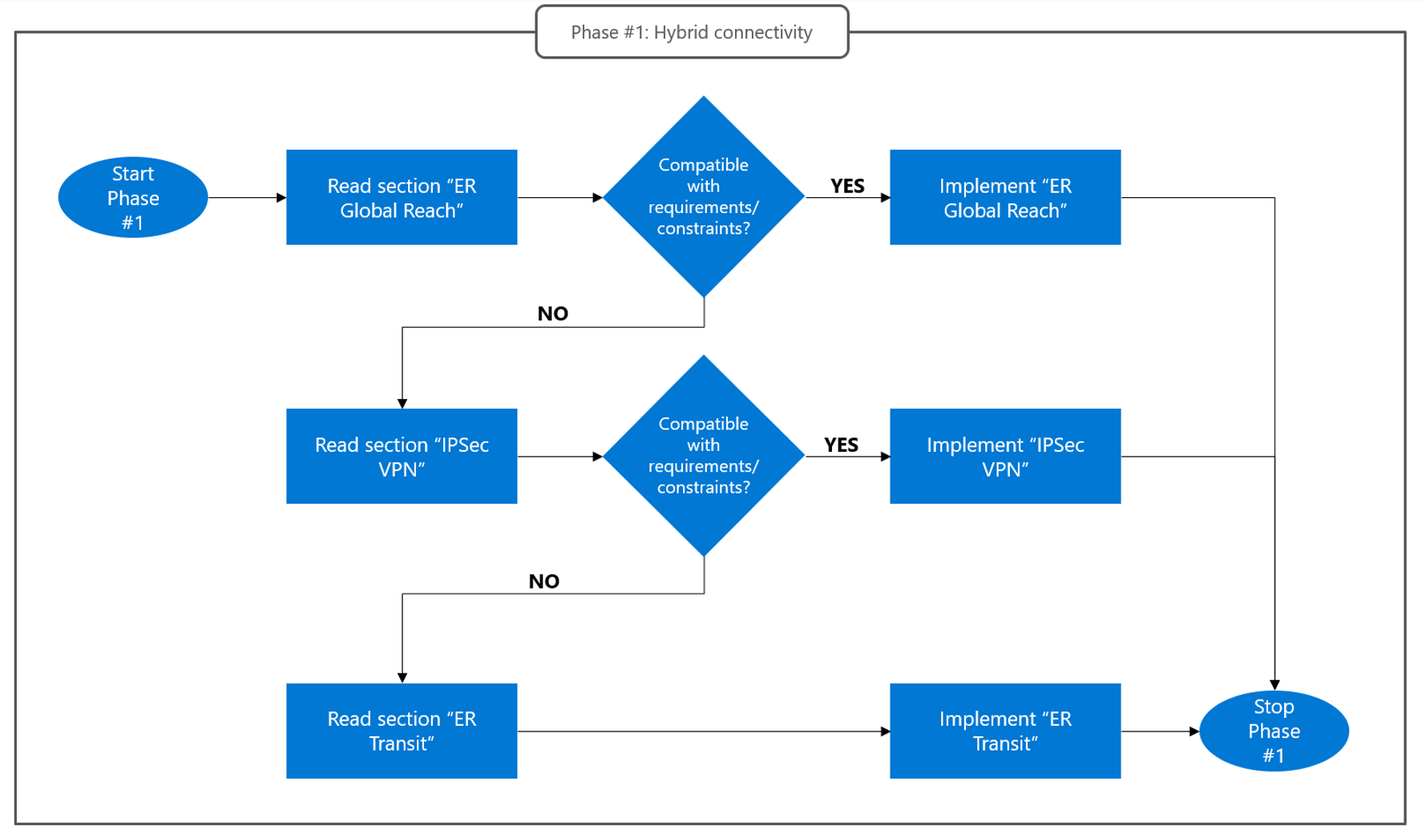
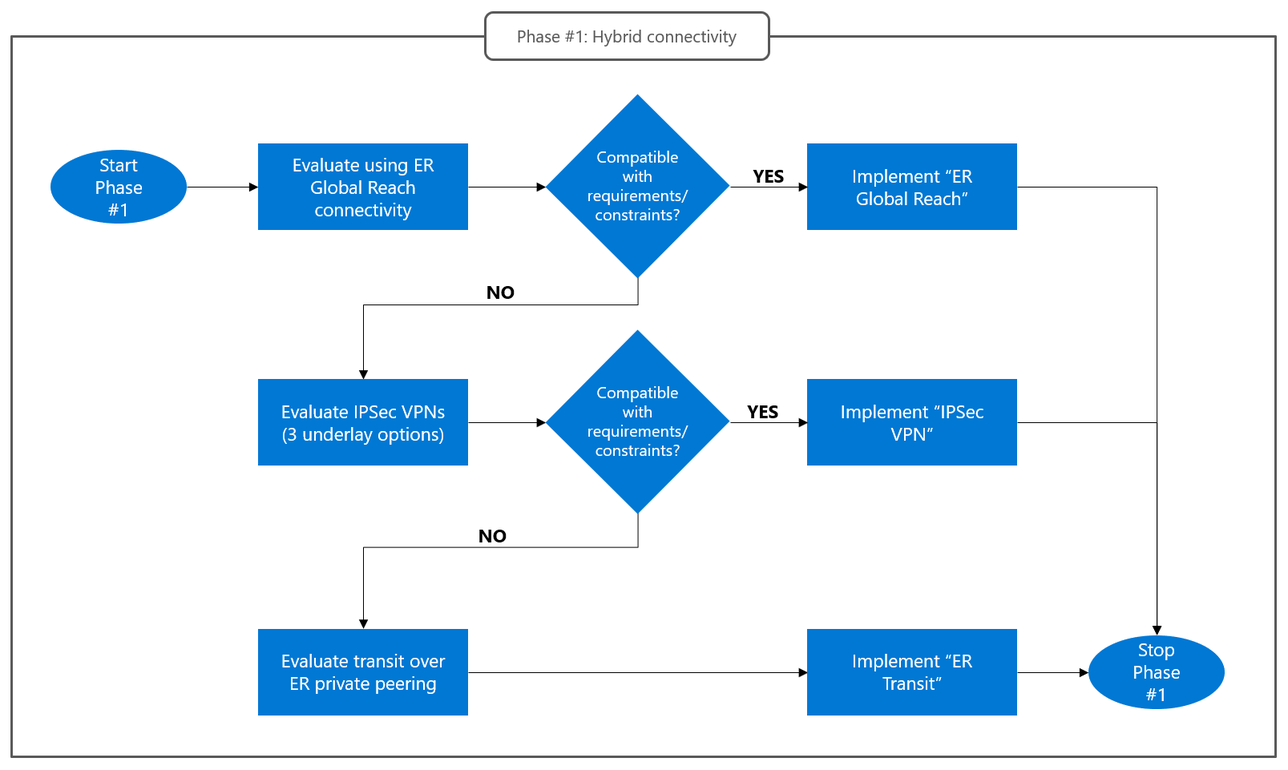
Updated figures

diff --git a/Network Design Guide/onprem-connectivity.md b/Network Design Guide/onprem-connectivity.md
@@ -6,15 +6,16 @@ Connectivity with on-premises datacenters is the most critical design area for A
 This section describes the options supported by AVS for connectivity with on-premises sites, in order of decreasing ability to meet the key requirements listed above. An option should be discarded, and the next one considered, only if it conflicts with non-negotiable constraints that exist in a specific scenario, as shown in the flowchart below:
    
 ![figure6](media/figure6.png)
-Figure 6. Design phase #1. How to select a hybrid connectivity option for AVS.
+*Design phase #1. How to select a hybrid connectivity option for AVS.*
 
 ## ExpressRoute Global Reach
 ExpressRoute Global Reach is the default hybrid connectivity option supported by AVS. It provides plain layer-3 connectivity between AVS and remote sites connected via a customer-managed ExpressRoute circuit, with minimal complexity. The customer-managed ExpressRoute circuit can be used to connect to Azure native services too. It is also possible to deploy a separate AVS circuit exclusively dedicated to AVS hybrid traffic. 
 The figure below shows the network topology when Global Reach is used for hybrid connectivity.
  
 ![figure7](media/figure7.png)
-Figure 7. Hybrid connectivity with ExpressRoute Global Reach. Traffic between AVS and on-premises sites does not transit through Azure VNets.
-Detailed instructions on how to connect an AVS private cloud to a customer managed ExpressRoute circuit using Global Reach are available in [this article](https://learn.microsoft.com/azure/azure-vmware/tutorial-expressroute-global-reach-private-cloud). 
+*Hybrid connectivity with ExpressRoute Global Reach. Traffic between AVS and on-premises sites does not transit through Azure VNets.*
+
+Detailed instructions on how to connect an AVS private cloud to a customer managed ExpressRoute circuit using Global Reach are available in [this article](https://learn.microsoft.com/azure/azure-vmware/tutorial-expressroute-global-reach-private-cloud).
 
 This option fully addresses the three key requirements listed above:  
 - High throughput: ExpressRoute allows customers to connect to the edge of the Microsoft network from their premises over dedicated lines, and to provision the network capacity they need (up to 10 Gbps for provider-based ExpressRoute, or 100 Gbps for ExpressRoute Direct). 
@@ -25,18 +26,22 @@ Using Global Reach for hybrid AVS connectivity is not an option in scenarios whe
   - Non-negotiable network security requirements. If a firewall device cannot be deployed at the on-premises side of the customer-managed ExpressRoute circuit, using Global Reach exposes all AVS network segments, including management endpoints (vCenter Server and NSX-T Manager), to the entire network connected to the circuit. The most typical scenario where this constraint applies is customer-managed ExpressRoute circuits implemented on top of MPLS network services, as shown in the figure below.
  
 ![figure8](media/figure8.png)
-Figure 8. ExpressRoute (ER) connectivity implemented on top of MPLS IPVPNs makes it impossible to deploy firewalls in a single location/facility to inspect all traffic to/from AVS (there is no customer-owned infrastructure at the ER peering location).  Typically, customers that use MPLS networks deploy firewall in large datacenters, not in all MPLS connected sites (which can be small branches/offices/stores/…).
+*ExpressRoute (ER) connectivity implemented on top of MPLS IPVPNs makes it impossible to deploy firewalls in a single location/facility to inspect all traffic to/from AVS (there is no customer-owned infrastructure at the ER peering location).  Typically, customers that use MPLS networks deploy firewall in large datacenters, not in all MPLS connected sites (which can be small branches/offices/stores/…).*
 
 ## IPSec VPNs
 If ExpressRoute Global Reach cannot be used, then connectivity between AVS private clouds and on-premises sites can be implemented by routing traffic through a “transit” VNet in Azure. The transit VNet is connected to the AVS private cloud through the AVS managed ExpressRoute circuit. As for connectivity between the transit VNet and the on-premises site, the lowest-complexity approach is using an IPSec VPN, covered in this section, and shown in the diagram below. The next section covers custom implementations for transit VNets with plain layer-3 connectivity to on-premises sites over the ExpressRoute “Private” peering.
  
 ![figure9](media/figure9.png)
-Figure 9. The “IPSec VPN” connectivity option covered in this section. Traffic between AVS private clouds and on-premises sites is routed through a transit VNet in Azure. The transit VNet is connected to AVS through the private cloud’s managed ExpressRoute circuit and to the on-premises site through an IPSec tunnel, terminated, on the Azure side, by a VPN device hosted in the transit VNet. Different implementation options exist for the IPSec tunnel’s underlay, the VPN device and the transit VNet (including the network function that routes traffic between the VPN device and the ExpressRoute gateway.) These details are not shown in this picture.
+*The “IPSec VPN” connectivity option covered in this section. Traffic between AVS private clouds and on-premises sites is routed through a transit VNet in Azure. The transit VNet is connected to AVS through the private cloud’s managed ExpressRoute circuit and to the on-premises site through an IPSec tunnel, terminated, on the Azure side, by a VPN device hosted in the transit VNet. Different implementation options exist for the IPSec tunnel’s underlay, the VPN device and the transit VNet (including the network function that routes traffic between the VPN device and the ExpressRoute gateway.) These details are not shown in this picture.*
 
 Implementing IPSec connectivity between on-premises sites and transit VNets entails three design decisions:
 1. Which connectivity service to use as the underlay for the IPSec tunnel. The available options are internet connectivity, ExpressRoute “Microsoft” peering and ExpressRoute “Private” peering.
 2. Where to host the virtual devices that terminate the IPSec tunnel on the Azure side. The available options are using a customer-managed VNet or a Virtual WAN hub. 
 3. Which virtual device terminates the IPSec tunnel on the Azure side. The choice of the device also determines the required Azure configuration to route traffic between the IPSec tunnel and the AVS managed circuit. The available options are native Azure VPN gateway or 3rd party IPSec NVAs, deployed in a customer-managed VNet or in a Virtual WAN hub.
+
+![figure9-1](media/figure9-1.png)
+*Design process for IPSec connectivity.*
+
 The criteria that drive these design decisions are covered  next.
 
 ### IPSec tunnel underlay
@@ -45,17 +50,17 @@ This guide strongly advocates considering the three available options in the ord
 **Internet connectivity**: With this option, an internet connection is used at the on-premises site to reach the edge of the Microsoft network and the public IP of a VPN device hosted in the transit VNet, which serves as the remote endpoint of the IPSec tunnel. Due to its low complexity and cost, internet connectivity should be always tested and assessed from a performance standpoint (achievable IPSec throughput – see the “IPSec bandwidth considerations” section below). It should be dismissed only when the observed performance is too low and/or not consistent over time.
  
 ![figure10](media/figure10.png)
-Figure 10. Internet connection as the IPSec tunnel underlay.
+*Internet connection as the IPSec tunnel underlay.*
 
 **ExpressRoute “Microsoft” peering**: The ExpressRoute “Microsoft” peering provides layer-3 connectivity to public Azure endpoints over dedicated links with customer-defined bandwidth. Just like internet connections, it allows reaching the public IP of a VPN device hosted in the transit VNet, which serves as the remote endpoint of the IPSec tunnel. This option should be dismissed only when the [Microsoft peering’s routing requirements](https://learn.microsoft.com/azure/expressroute/expressroute-routing#ip-addresses-used-for-microsoft-peering) cannot be met. 
  
 ![figure11](media/figure11.png)
-Figure 11. ExpressRoute “Microsoft” peering as the IPSec tunnel underlay.
+*ExpressRoute “Microsoft” peering as the IPSec tunnel underlay.*
 
 **ExpressRoute “Private” peering**: The ExpressRoute “Private” peering provides layer-3 connectivity between an on-premises site’s network and Azure VNets over dedicated links with customer-defined bandwidth. As such, it allows establishing an IPSec tunnel from the on-premises site towards the private IP address of a VPN device hosted in the transit VNet. The ExpressRoute “Private” peering may introduce bandwidth limitations (due to the presence of the ExpressRoute Gateway in the transit VNet, which is in the data path unless [ExpressRoute FastPath]( https://learn.microsoft.com/azure/expressroute/about-fastpath) can be used) and requires more complex routing configuration on the on-premises side (see [this article]( https://learn.microsoft.com/azure/vpn-gateway/site-to-site-vpn-private-peering?toc=%2Fazure%2Fexpressroute%2Ftoc.json) for more details).
  
 ![figure12](media/figure12.png)
-Figure 12. ExpressRoute “Private” peering as the IPSec tunnel underlay.
+*ExpressRoute “Private” peering as the IPSec tunnel underlay.*
 
 ### Customer-managed VNet vs. Virtual WAN hub 
 This design decision is driven by the characteristics of the pre-existing Azure environment (if any) and by the desired trade-off between management effort and ability to tailor the configuration to meet specific needs. As such, this guide does not advocate a preferred/recommended solution. The key considerations are listed below.
@@ -93,17 +98,17 @@ Both options rely, for their control plane implementations, on [Azure Route Serv
 In the single VNet approach, both the AVS-managed circuit and the customer-managed circuit are connected to the same VNet, typically the hub VNet in a pre-existing hub and spoke network. Traffic between the private cloud and the on-premises site can be routed through firewall NVAs deployed in the hub VNet. The single VNet architecture is shown in the figure below.
  
 ![figure13](media/figure13.png)
-Figure 13. The single-VNet option for ExpressRoute transit.
+*The single-VNet option for ExpressRoute transit.*
 
 The control plane and the data plane are implemented as follows.
-- Control plane. As the ExpressRoute Gateway deployed in the Azure VNet cannot propagate routes between the AVS managed and the customer managed ExpressRoute circuits, Azure Route Server is used to inject, in both circuits, routes for supernets that include the private cloud’s address space (management networks and workload segments) and the on-premises address space. Using supernets, instead of the exact prefixes that comprise those address spaces, is required because the exact prefixes are announced in the opposite direction (by the private cloud and the on-premises site). Supernets as large as RFC 1918 prefixes may be used if compatible with the network configuration of the on-premises sites. In most cases, the smallest supernets that include that include the private cloud’s address space and the on-premises address space should be used instead, to avoid conflicts with the network configuration of the on-premises sites. The routes for the supernets are originated by BGP-capable NVAs. The NVAs are configured to establish a BPG session with the Azure Route Server. They are only part of the control plane and do not route actual traffic between the on-premises site and the private cloud. The control plane implementation is shown by the grey lines in Figure 13 below.
+- Control plane. As the ExpressRoute Gateway deployed in the Azure VNet cannot propagate routes between the AVS managed and the customer managed ExpressRoute circuits, Azure Route Server is used to inject, in both circuits, routes for supernets that include the private cloud’s address space (management networks and workload segments) and the on-premises address space. Using supernets, instead of the exact prefixes that comprise those address spaces, is required because the exact prefixes are announced in the opposite direction (by the private cloud and the on-premises site). Supernets as large as RFC 1918 prefixes may be used if compatible with the network configuration of the on-premises sites. In most cases, the smallest supernets that include that include the private cloud’s address space and the on-premises address space should be used instead, to avoid conflicts with the network configuration of the on-premises sites. The routes for the supernets are originated by BGP-capable NVAs. The NVAs are configured to establish a BPG session with the Azure Route Server. They are only part of the control plane and do not route actual traffic between the on-premises site and the private cloud. The control plane implementation is shown by the grey lines in the figure below.
 - Data plane. The control plane implementation described above achieves the effect of attracting to the ExpressRoute Gateway (a) traffic from the on-premises site, destined to the AVS private cloud; and (b) traffic from the private cloud, destined to the on-premises site. If no UDR’s are applied to the GatewaySubnet, traffic flows directly between the on-premises site and the private cloud. By applying UDR’s to the GatewaySubnet, it is possible to route traffic to an intermediate next hops, such as a firewall NVAs that enforce a network security policy on connections between on-pre sites and private clouds (for example, protecting access to AVS management endpoints from the on-premises site’s network).
 
 ### ExpressRoute transit, auxiliary VNet
 In this approach, an auxiliary VNet is used to host a second ExpressRoute gateway, connected to the AVS-managed circuit only. By connecting the AVS-managed circuit and the customer-managed circuit to different ExpressRoute gateways, and injecting proper routes into them via Route Server instances, it is possible to granularly control route propagation between the private cloud and the on-premises site. Announcing supernets is no longer necessary (as it is the case for the single VNet option covered in the previous section). Management overhead for UDR’s in the GatewaySubnet is also reduced. This approach allows routing traffic between the private cloud and the on-premises site through firewall NVAs in the hub VNet. The auxiliary VNet implementation option is shown in the figure below.
  
 ![figure14](media/figure14.png)
-Figure 14. The auxiliary VNet implementation option.
+*The auxiliary VNet implementation option.*
 
 The control plane and the data plane are implemented as follows.
 - Control plane. To enable route propagation between the AVS-managed circuit and the customer-managed circuit, an Azure Route Server instance is needed in each VNet. As the two Azure Route Server instances cannot establish a BGP adjacency, BGP-capable NVAs are needed to propagate routes between them. At least two NVA instances should be deployed for high availability. More instances may be added to increase throughput. The BGP capable NVAs must have two NICs, attached to different subnets. BGP sessions towards the two Route Servers (in the auxiliary VNet and the hub VNet) must be established over different NICs. Routes originated by the private cloud and by the on-premises site are learned over ExpressRoute circuits: Their AS Path contains ASN 65515 (Azure-reserved ASN used by ExpressRoute Gateways) and ASN 12076 (Microsoft-owned ASN used by the MSEEs in all peering locations). The BGP-capable NVAs must manipulate the AS Path by removing them, to prevent routes from being dropped by BGP loop detection. Additional details on the required BGP configuration are provided in [this step-by-step configuration guide]( https://github.com/Azure/Enterprise-Scale-for-AVS/tree/main/BrownField/Networking/Step-By-Step-Guides/Expressroute%20connectivity%20for%20AVS%20without%20Global%20Reach). It should be noted that the 

diff --git a/Network Design Guide/avs-networking-basics.md b/Network Design Guide/avs-networking-basics.md
@@ -6,18 +6,18 @@ Azure VMware Solution runs on bare-metal VMware ESXi nodes deployed in Azure dat
 When an Azure VMware Solution Private Cloud is provisioned, an associated ExpressRoute circuit is also instantiated in a Microsoft-managed subscription. The private cloud’s owner can then connect the circuit to one or more ExpressRoute Virtual Network Gateways in Azure VNets, by redeeming authorization keys for the circuit (the same procedure used to create connections between ExpressRoute Gateways and customer-managed circuits). Please refer to the [Azure VMware Solution official documentation](https://learn.microsoft.com/azure/azure-vmware/deploy-azure-vmware-solution?tabs=azure-portal#connect-to-azure-virtual-network-with-expressroute ) for detailed instructions.
  
 ![figure2](media/figure2.png) 
-Figure 2. Azure VMware Solution leverages a dedicated ExpressRoute implementation to provide layer-3 connectivity between Azure VNets and the physical network to which the VMWare ESXi clusters are attached. The VMware ESXi clusters are hosted in the same Microsoft datacenter facilities that host the Azure platform.
+*Azure VMware Solution leverages a dedicated ExpressRoute implementation to provide layer-3 connectivity between Azure VNets and the physical network to which the VMWare ESXi clusters are attached. The VMware ESXi clusters are hosted in the same Microsoft datacenter facilities that host the Azure platform.*
 
 ## What is the role played by ExpressRoute Global Reach?
 An Azure ExpressRoute Gateway cannot be used to route traffic between on-premises locations connected to it over different circuits. This limitation applies to the Azure VMware Solution dedicated ExpressRoute implementation too, as shown in the figure below.
  
 ![figure3](media/figure3.png) 
-Figure 3. ExpressRoute does not support routing traffic between different circuits connected to the same gateway.
+*ExpressRoute does not support routing traffic between different circuits connected to the same gateway.*
 
 Global Reach is an ExpressRoute feature that allows connecting two circuits, so that the networks connected to each circuit can route traffic to each other over the Microsoft backbone. Global Reach is available in the Azure VMware Solution dedicated ExpressRoute implementation. As such, Azure VMware Solution managed ExpressRoute circuits can be connected to customer-managed circuits, providing layer-3 connectivity between on-premises networks and Azure VMware Solution private clouds.
  
 ![figure4](media/figure4.png) 
-Figure 4. ExpressRoute Global Reach provides direct, layer-3 connectivity over ExpressRoute for on-premises sites.
+*ExpressRoute Global Reach provides direct, layer-3 connectivity over ExpressRoute for on-premises sites.*
 
 ## Azure VMware Solution network topology
 An Azure VMware Solution private cloud infrastructure includes several network segments. 
@@ -28,15 +28,15 @@ An Azure VMware Solution private cloud infrastructure includes several network s
 Azure VMware Solution private clouds connect to Azure VNets and remote sites over the managed ExpressRoute circuit. BGP is used for dynamic route exchange, as shown in the figure below.
  
 ![figure5](media/figure5.png) 
-Figure 5. Dynamic routing in Azure VMware Solution.
+*Dynamic routing in Azure VMware Solution.*
 
-In the standard topology shown in Figure 5:
-- Routes for all network segments in the Azure VMware Solution private cloud (both management and workload segments) are announced to all ExpressRoute Gateways connected to the private cloud’s managed circuit. In the opposite direction, ExpressRoute Gateways announce routes for all the prefixes that comprise the address space of their own VNet and the address space of all directly peered VNets, if peering is configured to [allow gateway transit](https://learn.microsoft.com/azure/virtual-network/virtual-network-peering-overview#gateways-and-on-premises-connectivity) (red arrow in Figure 5). 
-- Routes for all network segments in the Azure VMware Solution private cloud (both management and workload segments) are announced to all ExpressRoute circuits connected to the private cloud’s managed circuit via Global Reach. In the opposite direction, all routes announced from the on-premises site over the customer-managed ExpressRoute circuit are propagated to the Azure VMware Solution private cloud (yellow arrow in Figure 5).
-- All routes announced from the on-premises site over the customer-managed ExpressRoute circuit are learned by all ExpressRoute Gateways connected to the circuit and injected the route table of the Gateway’s VNet (as well as the route table of all directly peered VNets, if peering is configured to [allow gateway transit](https://learn.microsoft.com/azure/virtual-network/virtual-network-peering-overview#gateways-and-on-premises-connectivity)). In the opposite direction, ExpressRoute Gateways announce routes for all the prefixes that comprise the address space of their own VNet (as well as the address space of all directly peered VNets, if peering is configured to [allow gateway transit](https://learn.microsoft.com/azure/virtual-network/virtual-network-peering-overview#gateways-and-on-premises-connectivity)) (green arrow in Figure 5. This is standard ExpressRoute behavior, not related to Azure VMware Solution). 
+In the standard topology shown in the above figure:
+- Routes for all network segments in the Azure VMware Solution private cloud (both management and workload segments) are announced to all ExpressRoute Gateways connected to the private cloud’s managed circuit. In the opposite direction, ExpressRoute Gateways announce routes for all the prefixes that comprise the address space of their own VNet and the address space of all directly peered VNets, if peering is configured to [allow gateway transit](https://learn.microsoft.com/azure/virtual-network/virtual-network-peering-overview#gateways-and-on-premises-connectivity) (red arrow in the figure). 
+- Routes for all network segments in the Azure VMware Solution private cloud (both management and workload segments) are announced to all ExpressRoute circuits connected to the private cloud’s managed circuit via Global Reach. In the opposite direction, all routes announced from the on-premises site over the customer-managed ExpressRoute circuit are propagated to the Azure VMware Solution private cloud (yellow arrow in the figure).
+- All routes announced from the on-premises site over the customer-managed ExpressRoute circuit are learned by all ExpressRoute Gateways connected to the circuit and injected the route table of the Gateway’s VNet (as well as the route table of all directly peered VNets, if peering is configured to [allow gateway transit](https://learn.microsoft.com/azure/virtual-network/virtual-network-peering-overview#gateways-and-on-premises-connectivity)). In the opposite direction, ExpressRoute Gateways announce routes for all the prefixes that comprise the address space of their own VNet (as well as the address space of all directly peered VNets, if peering is configured to [allow gateway transit](https://learn.microsoft.com/azure/virtual-network/virtual-network-peering-overview#gateways-and-on-premises-connectivity)) (green arrow in the figure. This is standard ExpressRoute behavior, not related to Azure VMware Solution). 
 
 > **Note** <br>
-> It should be noted that ExpressRoute Gateways do not propagate routes across circuit connections. In Figure 5, the ExpressRoute Gateway does not propagate routes learned in the “red” BGP session to the “green” BGP peer, and vice versa. This is the reason why Global Reach is required to enable connectivity between the Azure VMware Solution private cloud and the on-premises site.
+> It should be noted that ExpressRoute Gateways do not propagate routes across circuit connections. In the above figure, the ExpressRoute Gateway does not propagate routes learned in the “red” BGP session to the “green” BGP peer, and vice versa. This is the reason why Global Reach is required to enable connectivity between the Azure VMware Solution private cloud and the on-premises site.
 
 ## Outbound data transfer charges
 The managed ExpressRoute circuit associated to an Azure VMware Solution private cloud is instantiated in a Microsoft-owned subscription. Azure VMware Solution customers' subscriptions are not billed for any costs (monthly fees and data transfer fees) associated to the managed circuit. More specifically, customers' subscriptions are not billed for:

diff --git a/Network Design Guide/readme.md b/Network Design Guide/readme.md
@@ -8,6 +8,7 @@ This guide covers network design for Azure VMWare Solution. It encompasses four 
 3. **Inbound Internet connectivity**. Inbound Internet connectivity enables applications running on Azure VMware Solution to be exposed to the Internet behind public IP addresses. Internet-facing applications are almost invariably published through security devices (application delivery controllers, web application firewalls, L3/L4 next-gen firewalls, …). Design decisions about inbound connectivity are primarily driven by the placement of such devices (in Azure VMware Solution or in Azure VNets). 
 
 4. **Outbound Internet connectivity**. Outbound Internet connectivity is needed when applications running on Azure VMware Solution require access to public endpoints. Typical use cases include downloading software updates, consuming public web sites or APIs, Internet browsing (for example, when Azure VMware Solution is used to run [VDI solutions](https://learn.microsoft.com/en-us/azure/azure-vmware/azure-vmware-solution-horizon)). Azure VMware Solution provides several options to implement outbound Internet connectivity, which may or may not rely on Azure native resources. Security requirements (firewalling, forward proxying, …) typically drive design decisions in this area. 
+
 Azure VMware Solution provides native functionalities to address the most common/basic requirements in each design area, with little or no dependence on customer-managed Azure-native resources. However, in enterprise scenarios, it is common for Azure VMware Solution to be part of a larger infrastructure that includes native Azure IaaS and PaaS services. In such cases, some out-of-the-box connectivity features provided in Azure VMware Solution may be replaced by more advanced solutions based on Azure native services, such as 1st-party network services (Azure Firewall, Azure Application Gateway, …) or 3rd-party Network Virtual Appliances (NVAs).
 
 Designing Azure VMware Solution network solutions is a complex endeavor. A solid understanding of [Azure VMware Solution networking basics](avs-networking-basics.md) is needed for an effective use of this guide.
@@ -16,9 +17,9 @@ Designing Azure VMware Solution network solutions is a complex endeavor. A solid
 The four design areas are not independent of each other. Design decisions made for one area may limit the options available in other areas. It is recommended to tackle the four areas in the order they have been introduced in the previous section. 
 
 ![figure1](media/figure1.png) 
-Figure 1. Design area prioritization recommended in this guide.
+*Design area prioritization recommended in this guide.*
 
-As shown in the flow chart of Figure 1, this guide advocates the following approach to network design for Azure VMware Solution.
+As shown in the flow chart, this guide advocates the following approach to network design for Azure VMware Solution.
 1. Design connectivity with on-premises datacenters first. The key decisions for this area are (i) what connectivity service to leverage between on-premises sites and the edge of the Microsoft network (Internet vs. Expressroute) and (ii) whether traffic should be routed directly to Azure VMware Solution (recommended) or through virtual devices running in Azure VNets. Read the [Design phase #1: Connectivity with on-prem sites article](onprem-connectivity.md) to learn what options Azure VMware Solution supports and how to choose one.
 
 2. Identify the VNet connectivity option aligned to the design choices made in Phase #1. Determine which additional routing/security configuration may be needed in Azure VNets to incorporate requirements such as firewall inspection for traffic between Azure VMware Solution and Azure native VMs. Read the [Design phase #2: Azure VNet connectivity article](vnet-connectivity.md) to learn how design decisions for connectivity with on-premises sites influence the way an Azure VMware Solution private cloud connects to Azure VNets.

diff --git a/Network Design Guide/internet-outbound-connectivity.md b/Network Design Guide/internet-outbound-connectivity.md
@@ -8,7 +8,7 @@ Almost invariably, outbound Internet access must be secured, by routing connecti
 The flow chart below describes how to approach design phase #4.
  
 ![figure17](media/figure17.png) 
-Figure 17. Design Phase #4: Outbound Internet connectivity.
+*Design Phase #4: Outbound Internet connectivity.*
 
 ## Default routes and outbound Internet connectivity in Azure VMware Solution
 Default routes configured on a private cloud’s network segments determine how outbound Internet connections initiated within the private cloud are routed. Different default routes are used in different network segments.
@@ -19,7 +19,7 @@ Workload segments can:
 All workload segments share the same default route configuration (platform-managed breakout with platform- or user-managed SNAT, or custom internet breakout in Azure VNets or on-premises sites). Outbound internet connectivity for workload segments can be configured through the Azure portal, as shown in the figure below.
  
 ![figure18](media/figure18.png) 
-Figure 18. Outbound Internet connectivity options for workload segments. Option #1 disables the platform-managed Internet breakout. Use this option when a custom default route is announced over the Azure VMware Solution Expressroute circuit from Azure or on-premises sites. Option #2 provides a platform-managed Internet breakout with a managed NAT pool. Option #3 provides a platform-managed internet breakout with user-managed NAT pool. 
+*Outbound Internet connectivity options for workload segments. Option #1 disables the platform-managed Internet breakout. Use this option when a custom default route is announced over the Azure VMware Solution Expressroute circuit from Azure or on-premises sites. Option #2 provides a platform-managed Internet breakout with a managed NAT pool. Option #3 provides a platform-managed internet breakout with user-managed NAT pool.*
 
 ### Use Azure VMware Solution managed SNAT
 Managed SNAT is the lowest complexity option for outbound Internet access in Azure VMware Solution. When enabled on a private cloud, a default route in installed on T0/T1 gateways that forwards Internet-bound traffic to a platform-managed edge. The platform managed edge perform Source-NAT. Users have no control on the SNAT pool. Managed SNAT can be used to provide direct Internet access to Azure VMware Solution virtual machines. It is however possible to define NSX-T topologies whereby Internet-bound connections initiated by Azure VMware Solution virtual machines are routed to secure Internet edge devices (firewall, forward proxies) deployed as virtual applicances in Azure VMware Solution. Typical reasons for discarding Azure VMware Solution managed SNAT for outbound connectivity are listed below:
@@ -36,7 +36,7 @@ Internet-bound traffic emitted by Azure VMware Solution VMs can be routed to an 
 If the NVAs do not support BGP (or cannot be used as BGP speakers due to security-related constraints), additional NVAs can be deployed to act as BGP speakers. A typical scenario that requires additional BGP-capable NVAs is when the Azure Internet edge is Azure Firewall (Azure Firewall does not support BGP).
 
 ![figure19](media/figure19.png)  
-Figure 19. 
+*Default route origination from Azure Virtual Networks.*
 
 ## Next Steps
 - Go back to [Design Phase #3: Inbound Internet Connectivity](internet-inbound-connectivity.md)

diff --git a/Network Design Guide/internet-inbound-connectivity.md b/Network Design Guide/internet-inbound-connectivity.md
@@ -8,7 +8,7 @@ Inbound Internet connectivity for Azure VMware Solution must be designed based o
 The flow chart below summarizes how to approach Phase #3:
  
 ![figure16](media/figure16.png) 
-Figure 16. Design Phase #3: Design outbound Internet connectivity based on where NVAs for application publishing will be hosted (Azure VMware Solution or Azure VNet).
+*Design Phase #3: Design outbound Internet connectivity based on where NVAs for application publishing will be hosted (Azure VMware Solution or Azure VNet).*
 
 ## NVAs for application publishing hosted in an Azure VNet
 Publising Azure VMware Solution applications via Azure first-party services (Azure Firewall, Azure Application Gateway) or third-party NVAs hosted in a VNet only requires connectivity between the VNet and the Azure VMware Solution private cloud (covered in section [Azure VNet connectivity](vnet-connectivity.md)). Azure VMware Solution applications are published behind Azure Public IP resources assigned to the first-party service or third-party NVAs. Standalone Public IPs, Public IPs from [Public Ip Prefixes](https://learn.microsoft.com/azure/virtual-network/ip-services/public-ip-address-prefix) or Public IPs from [Custom IP Prefixes (BYOIP)](https://learn.microsoft.com/azure/virtual-network/ip-services/custom-ip-address-prefix) can be used. The first-party services or the third-party NVAs can act either as layer 3/4 devices (i.e. route/NAT connections to the application server VMs on Azure VMware Solution) or as layer 7 devices (i.e. reverse-proxy connections). In both cases, the application server VMs on Azure VMware Solution receive traffic destined to their private IP and originating from the publishing service/NVA's private IP.  

diff --git a/Network Design Guide/vnet-connectivity.md b/Network Design Guide/vnet-connectivity.md
@@ -4,7 +4,7 @@ Azure VMware Solution private clouds connect to Azure VNets via managed ExpressR
 While the primary function of managed ExpressRoute circuits is providing layer-3 connectivity between Azure VMware Solution virtual machines and native Azure virtual machines (or other Azure VNet-injected resources), they also enable connectivity between private clouds and an on-premises sites when the option “ExpressRoute transit” is selected in [Design Phase #1](onprem-connectivity.md). Therefore, the hybrid connectivity option selected in Design Phase#1 influences design decisions for Phase #2, as shown in the flow chart below.
   
 ![figure15](media/figure15.png) 
-Figure 15. Design Phase #2: Design connectivity with Azure VNets based on the hybrid connectivity option chosen in phase #1.
+*Design Phase #2: Design connectivity with Azure VNets based on the hybrid connectivity option chosen in phase #1.*
 
 ## Connectivity with Azure VNets when ExpressRoute Global Reach or IPSec VPN's are used for on-prem traffic
 When Azure VMware Solution private clouds are connected to on-premises sites using [ExpressRoute Global Reach](onprem-connectivity.md#expressroute-global-reach) or [IPSec VPNs](onprem-connectivity.md#ipsec-vpns), Azure VMware Solution managed ExpressRoute circuits only carry traffic between Azure VMware Solution virtual machines and Azure VNets. That traffic can routed to NVAs running in Azure by means of UDR's in the GatewaySubnet's route table (for traditional hub and spoke networks with customer-managed hub VNets) or custom routes in Virtual WAN hubs. More specifically:
